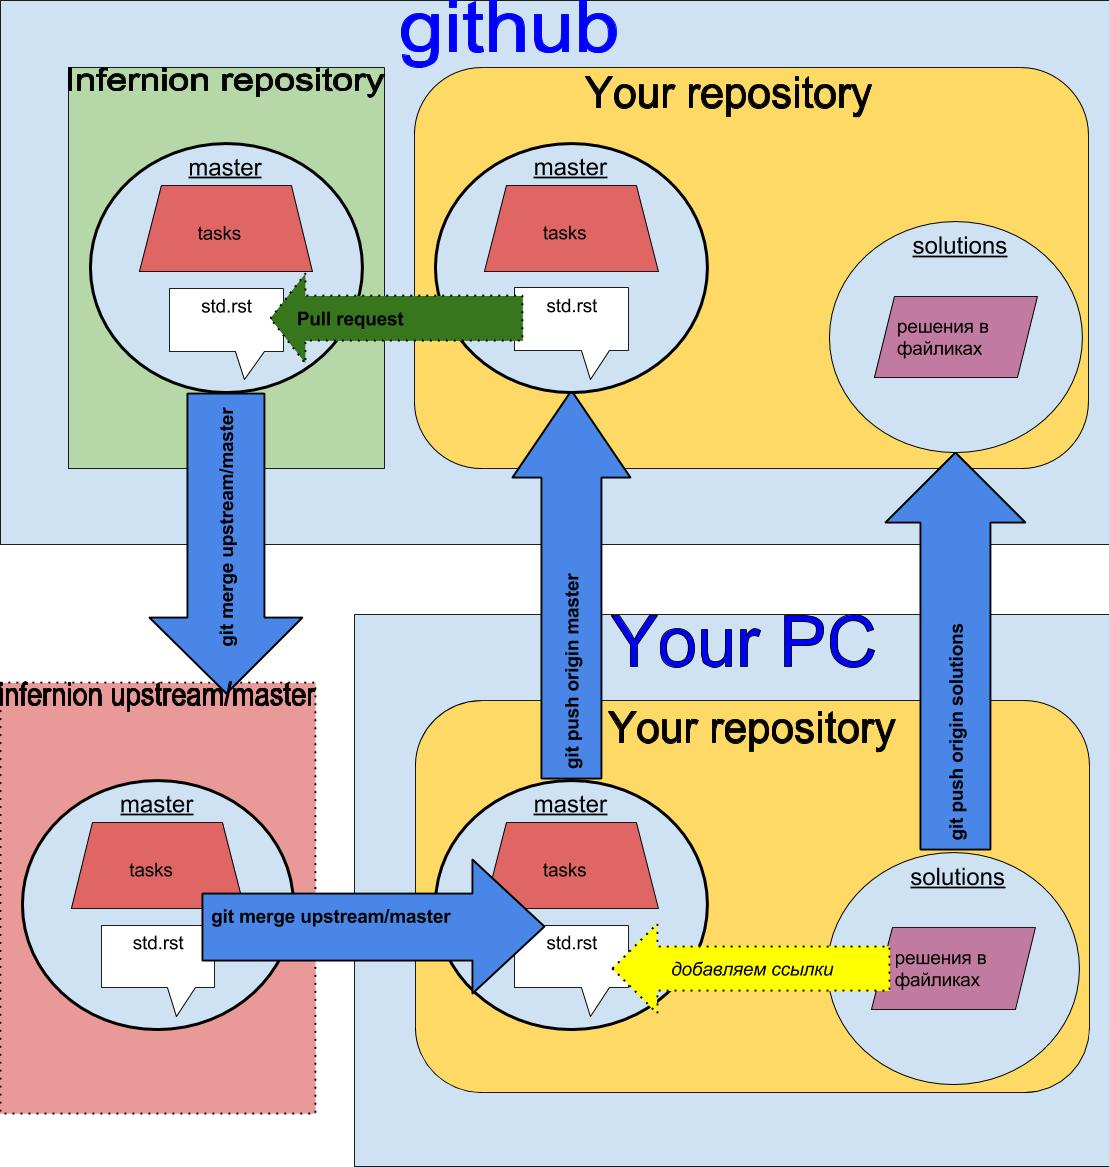
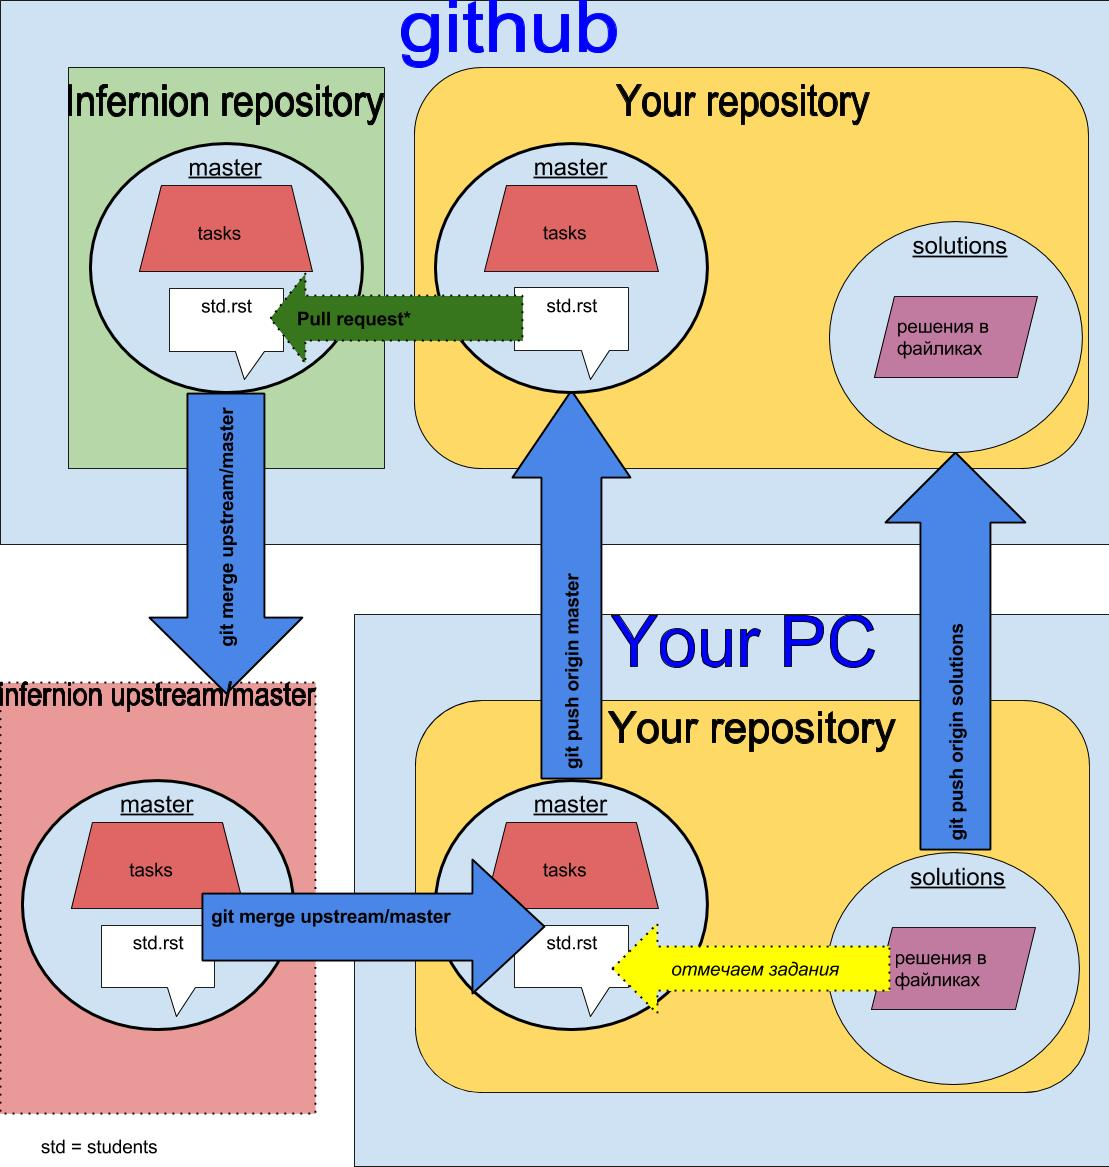
add inst... , edit picture, edit stud...

diff --git a/instructions/instructions.rst b/instructions/instructions.rst
@@ -1,0 +1,71 @@
+Установка Linux
+================
+Простая инструкция: webpage1_
+
+Для работы в среде Linux требуеться установить на ПК виртуальную машину (download_). Там же загрузите Guest additions.
+ После установки Oracle VM зайдите на webpage2_ для установки XUbuntu. Сайт предоставляет вам URL фдреса торентов,
+ которые нужно скопировать в соотвествующее поле при запуске Торент-трекера с вашего ПК. Важно помнить куда загрузили
+последние 2 файла.
+
+Теперь открываем ВМ и создаём новую. Подходящие параметры узнать можно на картинках с webpage1_. Но в параметрах
+"носители" нужно добавить зипки, используя кнопочку "добавить образ СД" и указав пути к ним.
+.. image:: vm1.png
+А в параметрах "система" указать порядок загрузки следующий: сд - жесткий диск. Используйте кнопки справа.
+.. image:: vm2.png
+Теперь запускаем образ Линукса и проходим простой процес установки. Подробнее: webpage1_
+Когда установка заканчиваеться, выключаем машину (мирно) и извлекаем диск, удаляя ег ов параметрах "носители" (только
+образ для установки).
+
+Если хотим использовать функцию КопиПаст нужно в настройках параметра "общие" выбрать "двунаправленый" в "общий буфер
+обмена" и "Drug'n'Drop". А в уже запущеном образе найти сверху (на панели программы) отверточку, нажать на неё и
+запустится прочес установки GuestAdittions . После этого перезапустите образ и радуйтесь двустороннему буферу.
+
+Чтобы установить SublimeText3 переходим there1_. Его настройка there2_
+Установка PyCharm
+=================
+
+Установка Git
+======================
+1. создать аккаунт на `GitHub <https://github.com/join?source=header-home>`_.
+2. прочитать про `Git <https://git-scm.com/book/ru/v1>`_. параграфы от  **Введение** до **Ветвление** включительно.
+3. установить на свой компьютер `Git <https://git-scm.com/book/ru/v1/%D0%92%D0%B2%D0%B5%D0%B4%D0%B5%D0%BD%D0%B8%D0%B5-%D0%A3%D1%81%D1%82%D0%B0%D0%BD%D0%BE%D0%B2%D0%BA%D0%B0-Git>`_.
+4. делаем форк моего репо себе
+.. image:: fork.jpg
+5. клонирем себе на компьютер репозиторием с которого вы сделали форк командой ``git clone url``, где url ссылка на ваш репозиторий. В ветке ``master`` будут задания.
+Работа с репозиторием
+=====================
+1. переходим в склонированую папку ``python_learn`` командой ``cd python_learn``.
+2. создайте ветку ``solutions`` где вы будете делать решения и заливать на GitHub, командой ``git branch solutions``. Детальнее о ветвлении в `Git <https://git-scm.com/book/ru/v1/%D0%92%D0%B5%D1%82%D0%B2%D0%BB%D0%B5%D0%BD%D0%B8%D0%B5-%D0%B2-Git>`_.
+3. настраюем постоянную синхронизацию с моим репозиторием по статьям configuring-a-remote-for-a-fork_ и syncing-a-fork_. После правильной настройки у вас должен появится удаленный репозиторием ``upstream`` в котором будет хранится нынешняя версия моих изменений. Что бы обновлять репо выполните эту инструкцию syncing-a-fork_.
+4. переходим в ветку ``solutions`` командой ``git checkout solutions`` и в папке ``tasks/`` решаем задания.
+5. когда ваше решение проходит тесты то делаем ``git commit -m "Your message"`` и ``git push origin solutions``, что зальет изменения в ваш репозиторием
+6. отправляем решения мне, для этого нужно сделать Pull_request_.
+7. 'отмечаемся <https://github.com/Infernion/python_learn/blob/master/students.rst#Основы-python>'_
+
+Работа с табличкой
+==================
+КАК РЕДАКТИРОВАТЬ
+Наипростейший способ: сначала залить на сервер ветку solutions, а затем зайти на сайт и вручную
+отредактировать. Для этого заходим к себе на репозиторий (https://github.com/'ваш_логин'/python_learn/blob/master)
+ , выбираем файл students.rst Затем нажимаем кнопку "редактировать":
+.. image:: add1.png
+Теперь находим свою "колонку" и отмечаем плюсики " +" (пробел важен) напротив обновившихся (сделаных) заданий. Потом выбираем режим предпросмотра
+и если всё хорошо (проверили работу ссылок, желательно открывать их в нвоом окне), то внизу делаем коммит с описанием.
+На картинке снизу приведён пример:
+.. image:: add2.png
+При этом ссылки настроены изначально с учетом того, что вы добавляете решения в ветку "solutions".
+Если вы используете другое название - отредактируйте свои ссылки.
+
+.. Links
+
+.. _webpage1: http://white55.ru/vboxubuntu.html
+.. _download: https://www.virtualbox.org/wiki/Downloads
+.. _webpage2: http://xubuntu.org/getxubuntu/#regular
+.. _there1: http://ubuntovod.ru/soft/install-sublime-text-3.html
+.. _there2: https://www.it-obzor.com/blog/aliev/delaem-iz-sublime-text-3-ide-dlya-python-i-django
+
+.. _syncing-a-fork: https://help.github.com/articles/syncing-a-fork/#platform-windows
+.. _configuring-a-remote-for-a-fork: https://help.github.com/articles/configuring-a-remote-for-a-fork/
+.. _Pull_request: https://help.github.com/articles/using-pull-requests/
+.. _for_comments: https://docs.google.com/drawings/d/1dPZvqznigTCSEu9PUpyOdQPVJq3bFfYVybETjvoTRoA/edit?usp=sharing
+.. _scores: https://github.com/Infernion/python_learn/blob/master/students.rst#Основы-python

diff --git a/students.rst b/students.rst
@@ -1,6 +1,10 @@
 Основы Python
 =============
-
+Отметки:
+\+ - добавил;
+✓ - все хорошо;
+✗ - переделать;
+[1-5] - конечная оценка;
 .. list-table:: Успеваемость
    :header-rows: 1
    :stub-columns: 1
@@ -41,7 +45,7 @@
    * - 1
      - Artem Belskii
      - belskiiartem_
-     - 1.1a_+ 1.2a_+ 1.3a_+[**+4**]
+     - 1.1a_ 1.2a_ 1.3a_ [**+4**]
      - 2.1a_ 2.2a_ 2.3a_
      - 3.1a_ 3.2a_ 3.3a_
      - 4.1a_ 4.2a_ 4.3a_
@@ -52,7 +56,7 @@
    * - 2
      - Заика Евгений
      - zaikays_
-     - 1.1e_+ 1.2e_+ 1.3e_+[**+5**]
+     - 1.1e_ 1.2e_ 1.3e_ [**+5**]
      - 2.1e_ 2.2e_ 2.3e_
      - 3.1e_ 3.2e_ 3.3e_
      - 4.1e_ 4.2e_ 4.3e_
@@ -63,7 +67,7 @@
    * - 3
      - Myhaylo Chervonik
      - mchervonik_
-     - 1.1m_+ 1.2m_+ 1.3m_+[**+5**]
+     - 1.1m_ 1.2m_ 1.3m_ [**+5**]
      - 2.1m_ 2.2m_ 2.3m_
      - 3.1m_ 3.2m_ 3.3m_
      - 4.1m_ 4.2m_ 4.3m_
@@ -74,7 +78,7 @@
    * - 4
      - Ілля Ананіч
      - LotosikRa_
-     - 1.1i_+ 1.2i_+ 1.3i_+
+     - 1.1i_ + 1.2i_ + 1.3i_ +
      - 2.1i_ 2.2i_ 2.3i_
      - 3.1i_ 3.2i_ 3.3i_
      - 4.1i_ 4.2i_ 4.3i_
@@ -127,6 +131,9 @@
      -
      -
 
+HELP_
+=====
+.. _HELP: https://github.com/LotosikRa/python_learn/blob/develop/instructions/instructions.rst
 .. CheckPoints
 
 .. |dz1| replace:: дз #1
